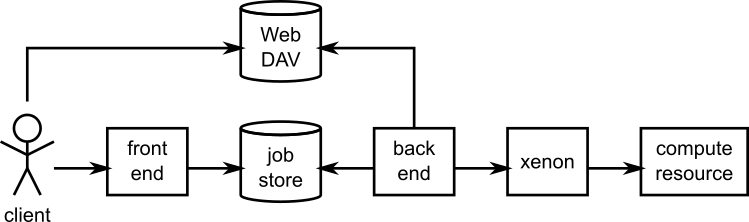
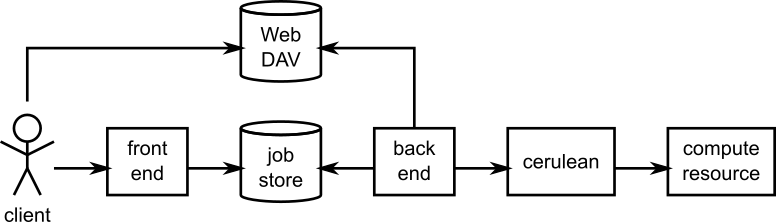
Remove Xenon flotsam and jetsam

diff --git a/cerise/run_back_end.py b/cerise/run_back_end.py
@@ -7,6 +7,8 @@ import os
 sys.path.append(os.path.join(os.path.dirname(__file__), '..'))
 
 import cerise.config
+from cerise.back_end.execution_manager import ExecutionManager
+
 
 if __name__ == "__main__":
     # Load configuration
@@ -34,9 +36,6 @@ if __name__ == "__main__":
                 datefmt='%Y-%m-%d %H:%M:%S')
 
     # Run
-    # Note: needs to be imported after Xenon is inited
-    from cerise.back_end.execution_manager import ExecutionManager
-
     logging.info('Starting up')
     try:
         apidir = os.path.join(os.path.dirname(os.path.abspath(__file__)), '..', 'api')

diff --git a/cerise/job_store/sqlite_job.py b/cerise/job_store/sqlite_job.py
@@ -4,8 +4,8 @@ class SQLiteJob:
     """This class provides the internal representation of a job. These
     are stored inside the service. Note that there is also a JobDescription,
     which is defined in the Swagger definition and part of the REST API,
-    and a Xenon Job class, which represents a job running on the remote
-    compute resource.
+    and a Cerulean JobDescription class, which describes a job to start on
+    a remote compute resource.
     """
     def __init__(self, store, job_id):
         """Creates a new SQLiteJob object.

diff --git a/cerise/job_store/in_memory_job.py b/cerise/job_store/in_memory_job.py
@@ -4,8 +4,8 @@ class InMemoryJob:
     """This class provides the internal representation of a job. These
     are stored inside the service. Note that there is also a JobDescription,
     which is defined in the Swagger definition and part of the REST API,
-    and a Xenon Job class, which represents a job running on the remote
-    compute resource.
+    and a Cerulean JobDescription class, which describes a job to start on
+    a remote compute resource.
     """
     # Attributes:
     def __init__(self, job_id, name, workflow, job_input):

diff --git a/setup.py b/setup.py
@@ -11,9 +11,9 @@ setup(
     version = "develop",
     author = "Lourens Veen",
     author_email = "l.veen@esciencecenter.nl",
-    description = ("A simple CWL job running service using Xenon as a backend"),
+    description = ("A simple CWL job running service"),
     license = "Apache 2.0",
-    keywords = ["Python", "CWL", "Xenon"],
+    keywords = ["Python", "CWL", "HPC", "Science"],
     url = "https://github.com/LourensVeen/cerise",
     packages=['cerise'],
     packages_data={'': ['swagger_server/swagger/swagger.yaml']},

diff --git a/cerise/config.py b/cerise/config.py
@@ -152,7 +152,7 @@ class Config:
         Returns a remote file system as configured by the user.
 
         Returns:
-            (xenon.FileSystem): A new filesystem
+            (cerulean.FileSystem) A new filesystem
         """
         if 'files' not in self._cr_config:
             protocol = 'local'

diff --git a/docs/source/design.rst b/docs/source/design.rst
@@ -13,7 +13,7 @@ Cerise has a simple architecture.
 
    Architecture of Cerise. Arrows show the direction of calls.
 
-The front end of the system is provided by server-side Python bindings for the REST API, as generated by Swagger (which uses connexion). In the middle is the job store, in which the currently known jobs are registered, and which takes care of synchronisation between the front end and the back end. The back end takes care of staging and running jobs, using the Xenon library (via PyXenon) to connect to the compute resource.
+The front end of the system is provided by server-side Python bindings for the REST API, as generated by Swagger (which uses connexion). In the middle is the job store, in which the currently known jobs are registered, and which takes care of synchronisation between the front end and the back end. The back end takes care of staging and running jobs, using the Cerulean library to connect to the compute resource.
 
 Functionality
 -------------
@@ -28,7 +28,7 @@ The Local Files component manages the local storage area. This local storage are
 
 Local Files contains functionality for opening input files for staging, creating directories for job output, and publishing job output.
 
-The Remote Files component manages a remote storage area, presumably on the compute resource, or at least accessible from there. This is used for communication with the compute resource. The remote storage area is simply a directory on a file system that is accessible through any of the Xenon-supported access methods. Inside this directory, Remote Files keeps one directory per job. It will stage input there, and retrieve output from there. Remote Files also contains functionality for interpreting the job's output, and updating the state of the job based on this.
+The Remote Files component manages a remote storage area, presumably on the compute resource, or at least accessible from there. This is used for communication with the compute resource. The remote storage area is simply a directory on a file system that is accessible through any of the Cerulean-supported access methods. Inside this directory, Remote Files keeps one directory per job. It will stage input there, and retrieve output from there. Remote Files also contains functionality for interpreting the job's output, and updating the state of the job based on this.
 
 The Job Runner component contains the functionality for starting jobs on the compute resource, getting the current status (waiting to run, running, done) of remote jobs, and for cancelling them. It does not interpret the result of the job, and cannot tell whether it completed successfully or not, it only knows whether a job is running or not.
 

diff --git a/README.md b/README.md
@@ -3,7 +3,7 @@ Cerise
 [![Develop build status](https://api.travis-ci.org/MD-Studio/cerise.svg?branch=develop)](https://travis-ci.org/MD-Studio/cerise) [![Codacy Badge](https://api.codacy.com/project/badge/Grade/56de5791221a42e5964ba9d3a949c9c4)](https://www.codacy.com/app/LourensVeen/cerise) [![Coverage Badge](https://api.codacy.com/project/badge/Coverage/56de5791221a42e5964ba9d3a949c9c4)](https://www.codacy.com/app/LourensVeen/cerise) [![Documentation Status](https://readthedocs.org/projects/cerise/badge/?version=latest)](http://cerise.readthedocs.io/en/latest/?badge=latest) [![Docker Build Status](https://img.shields.io/docker/build/mdstudio/cerise.svg)](https://hub.docker.com/r/mdstudio/cerise/)
 
 This is a simple REST service that can run (some) CWL jobs on some remote
-compute resource. It uses a REST API as its interface and PyXenon
+compute resource. It uses a REST API as its interface and Cerulean
 to run jobs remotely.
 
 The implementation is fairly complete, and the main things needed are some

diff --git a/docs/source/specialising.rst b/docs/source/specialising.rst
@@ -142,5 +142,4 @@ placed at `api/config.yml`. See :doc:`Cerise <configuration>` for what to put
 into this file
 
 .. _`CWL User Guide`: http://www.commonwl.org/v1.0/UserGuide.html
-.. _Xenon: http://nlesc.github.io/Xenon/
 
